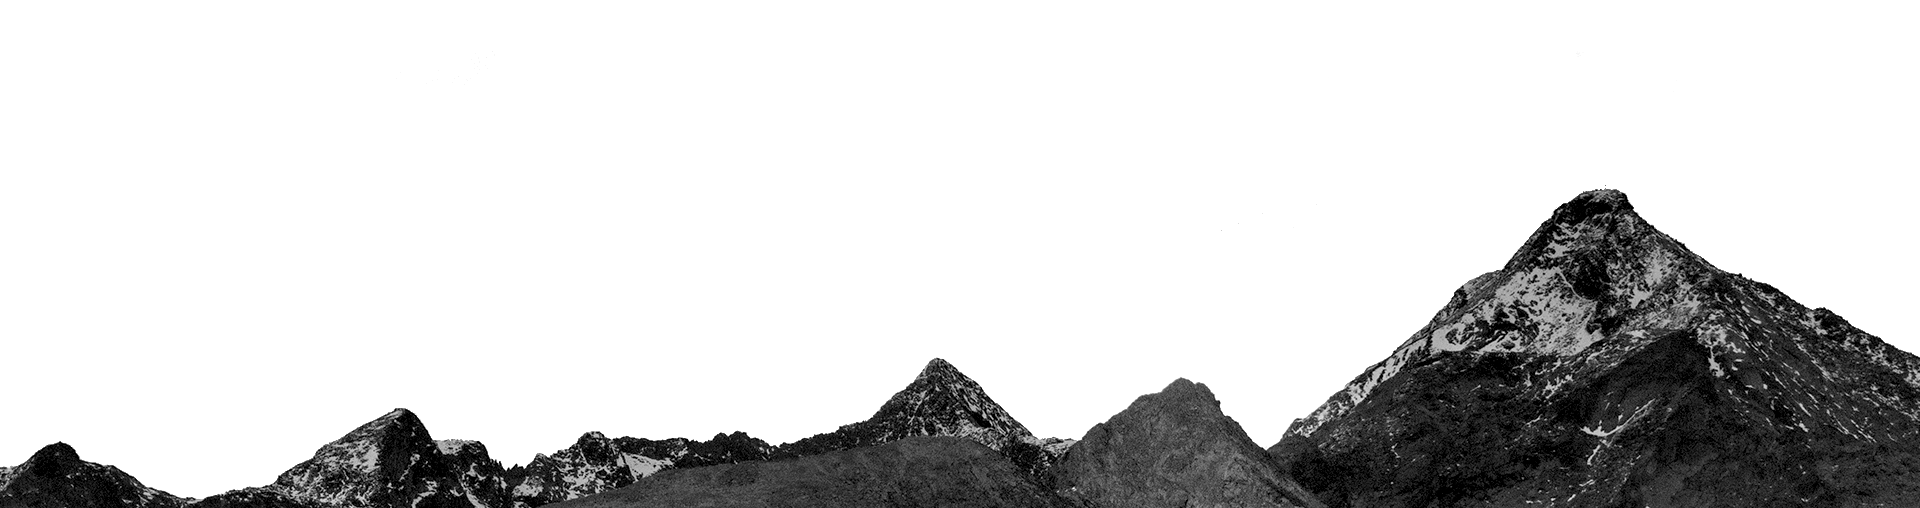
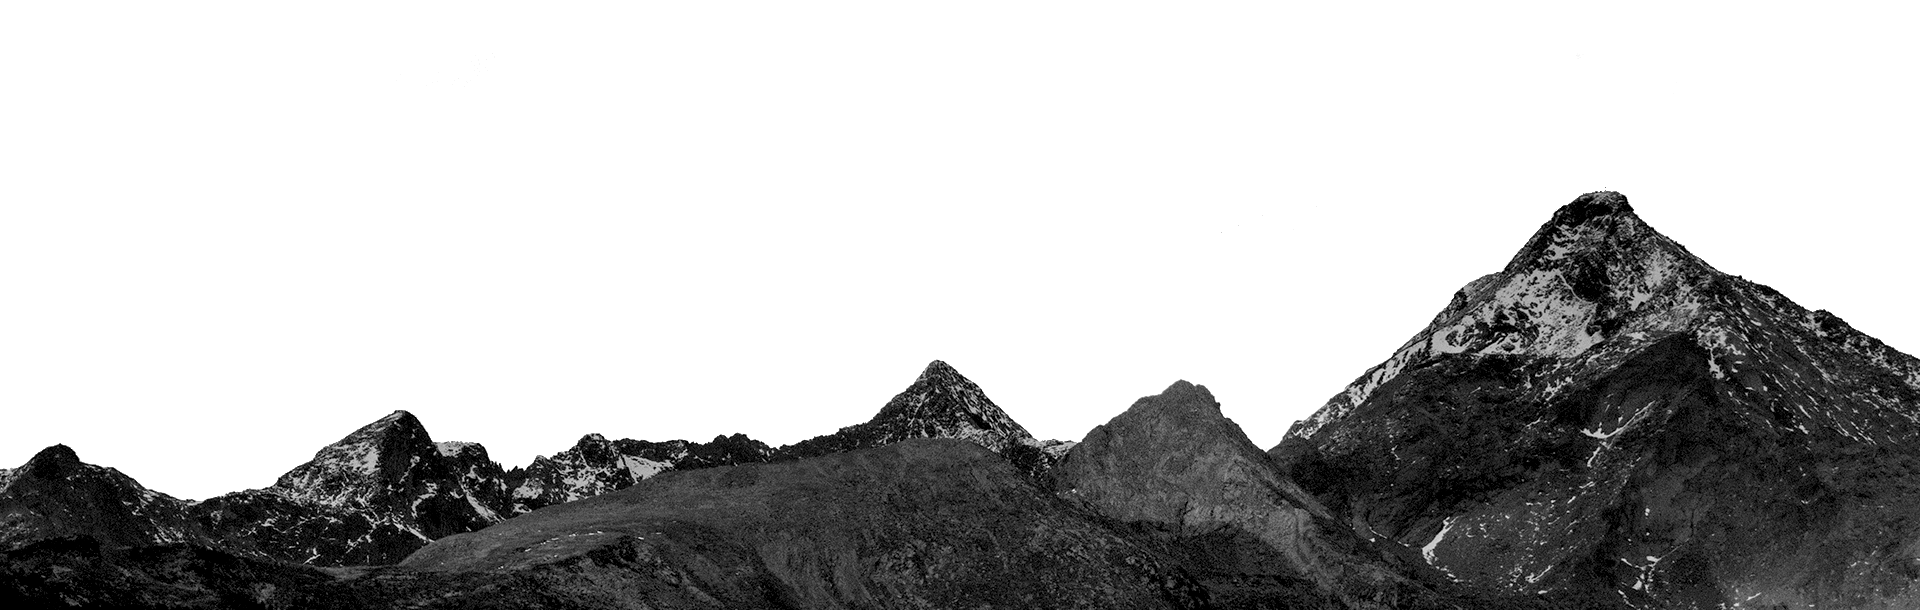
edited image for mobile

Changed region(s): [[0.0, 0.2953, 1.0, 1.0]]

diff --git a/src/components/About.tsx b/src/components/About.tsx
@@ -3,6 +3,7 @@ import React from 'react';
 import { makeStyles } from '@material-ui/core/styles';
 import Me from "../assets/me-2.jpg";
 import Mountain from "../assets/mountain.png";
+import MountainCropped from "../assets/mountain-cropped.png";
 
 function About() {
   const classes = useStyles();
@@ -11,6 +12,7 @@ function About() {
     <div className={classes.container}>
       <img src={Me} alt="" className={classes.me}/>
       <img src={Mountain} alt="" className={classes.mountain}/>
+      <img src={MountainCropped} alt="" className={classes.mountainCropped}/>
       <div className={classes.textContainer}>
         <p className={classes.text1}>
           Hi, I'm Feras 
@@ -39,6 +41,19 @@ const useStyles = makeStyles({
     width: "100%",
     position: "absolute",
     bottom: 0,
+    display: "inline",
+    '@media(max-width: 550px)': {
+      display: "none"
+    },
+  },
+  mountainCropped: {
+    width: "100%",
+    position: "absolute",
+    bottom: 0,
+    display: "none",
+    '@media(max-width: 550px)': {
+      display: "inline"
+    },
   },
   textContainer:{
     marginLeft: "64px", 
